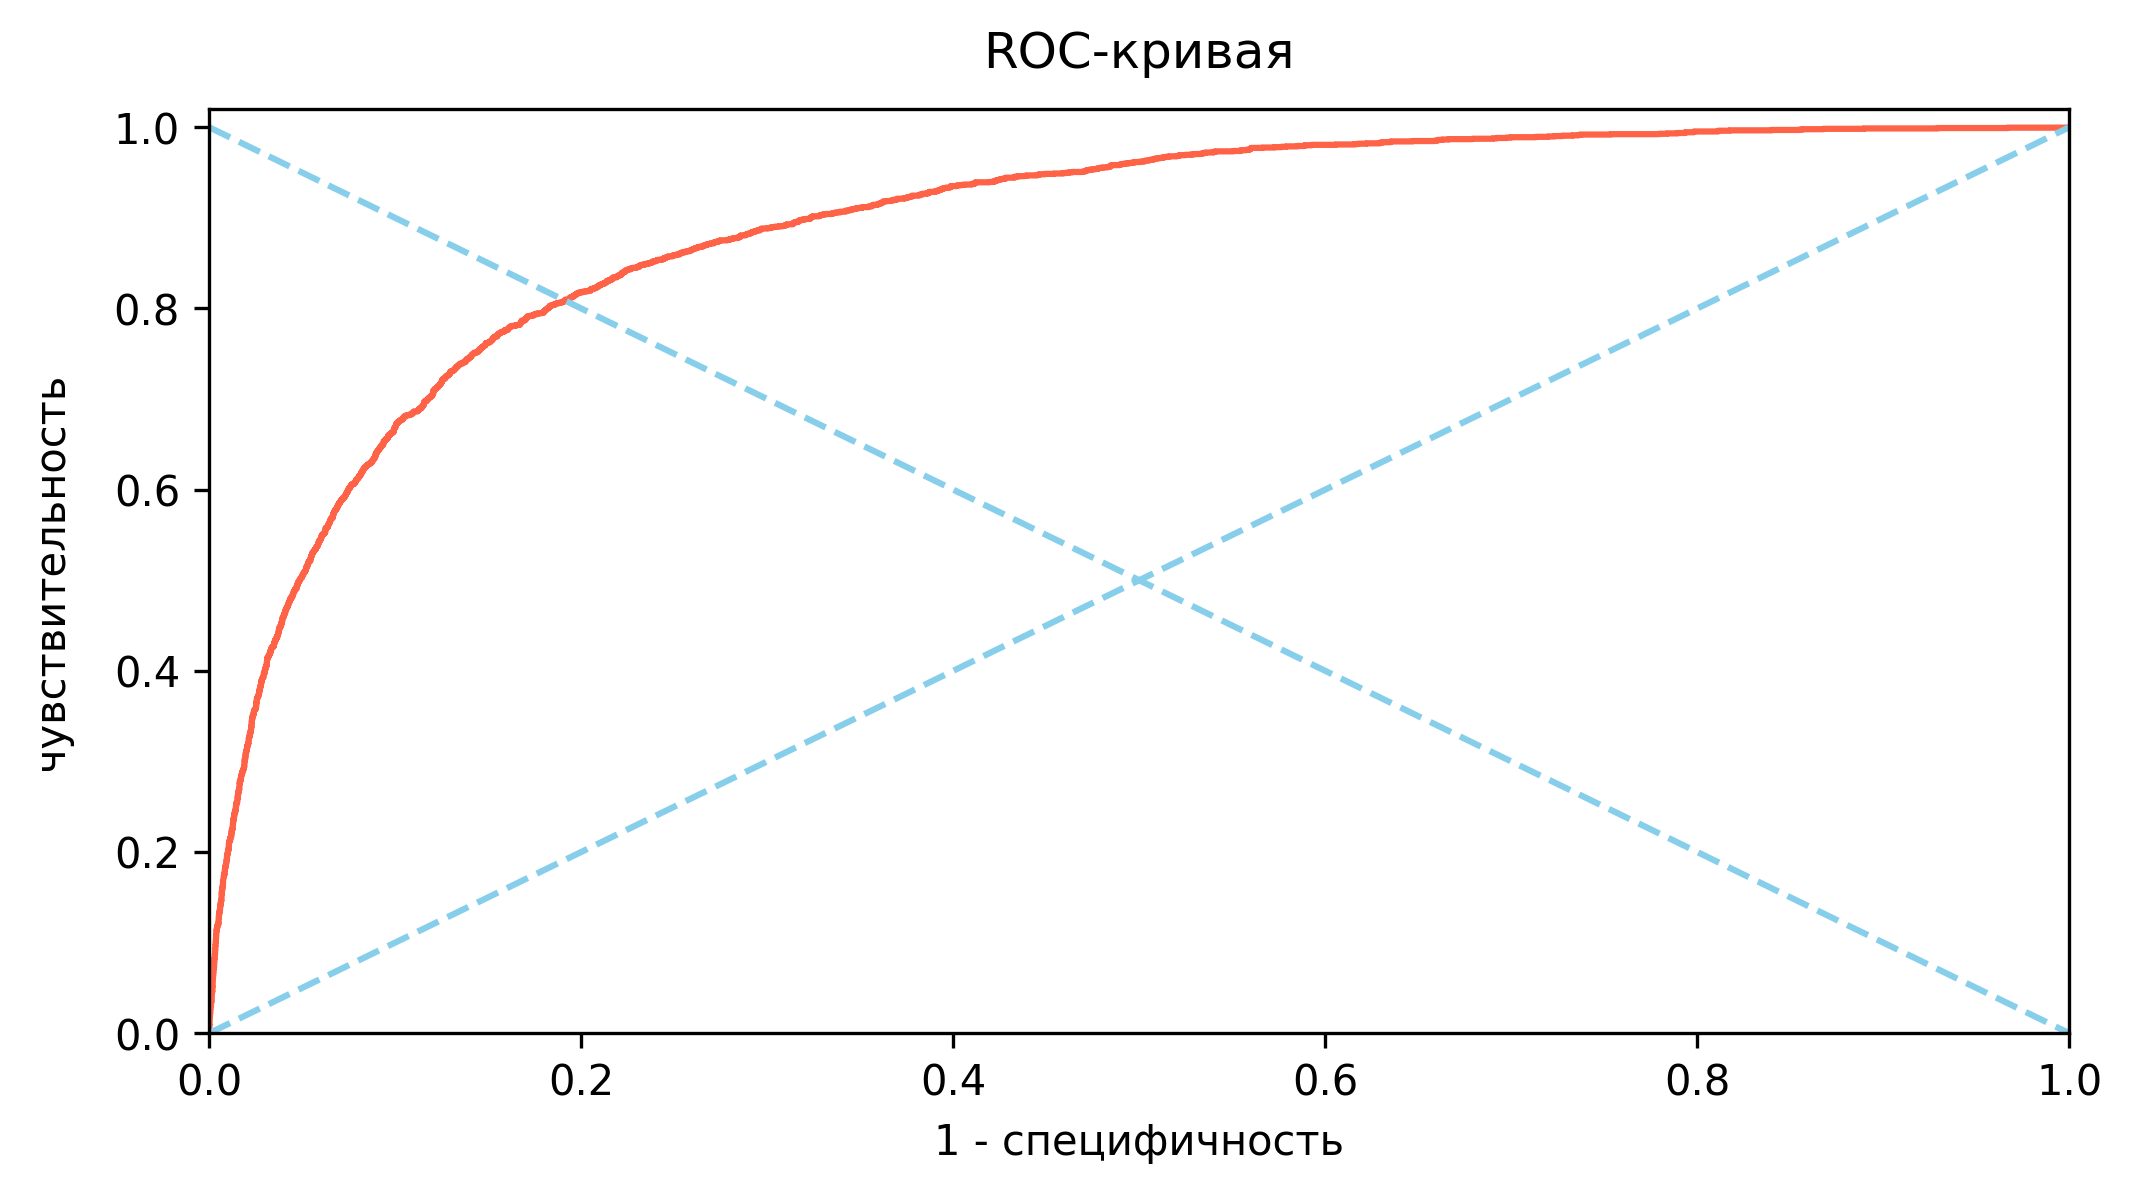
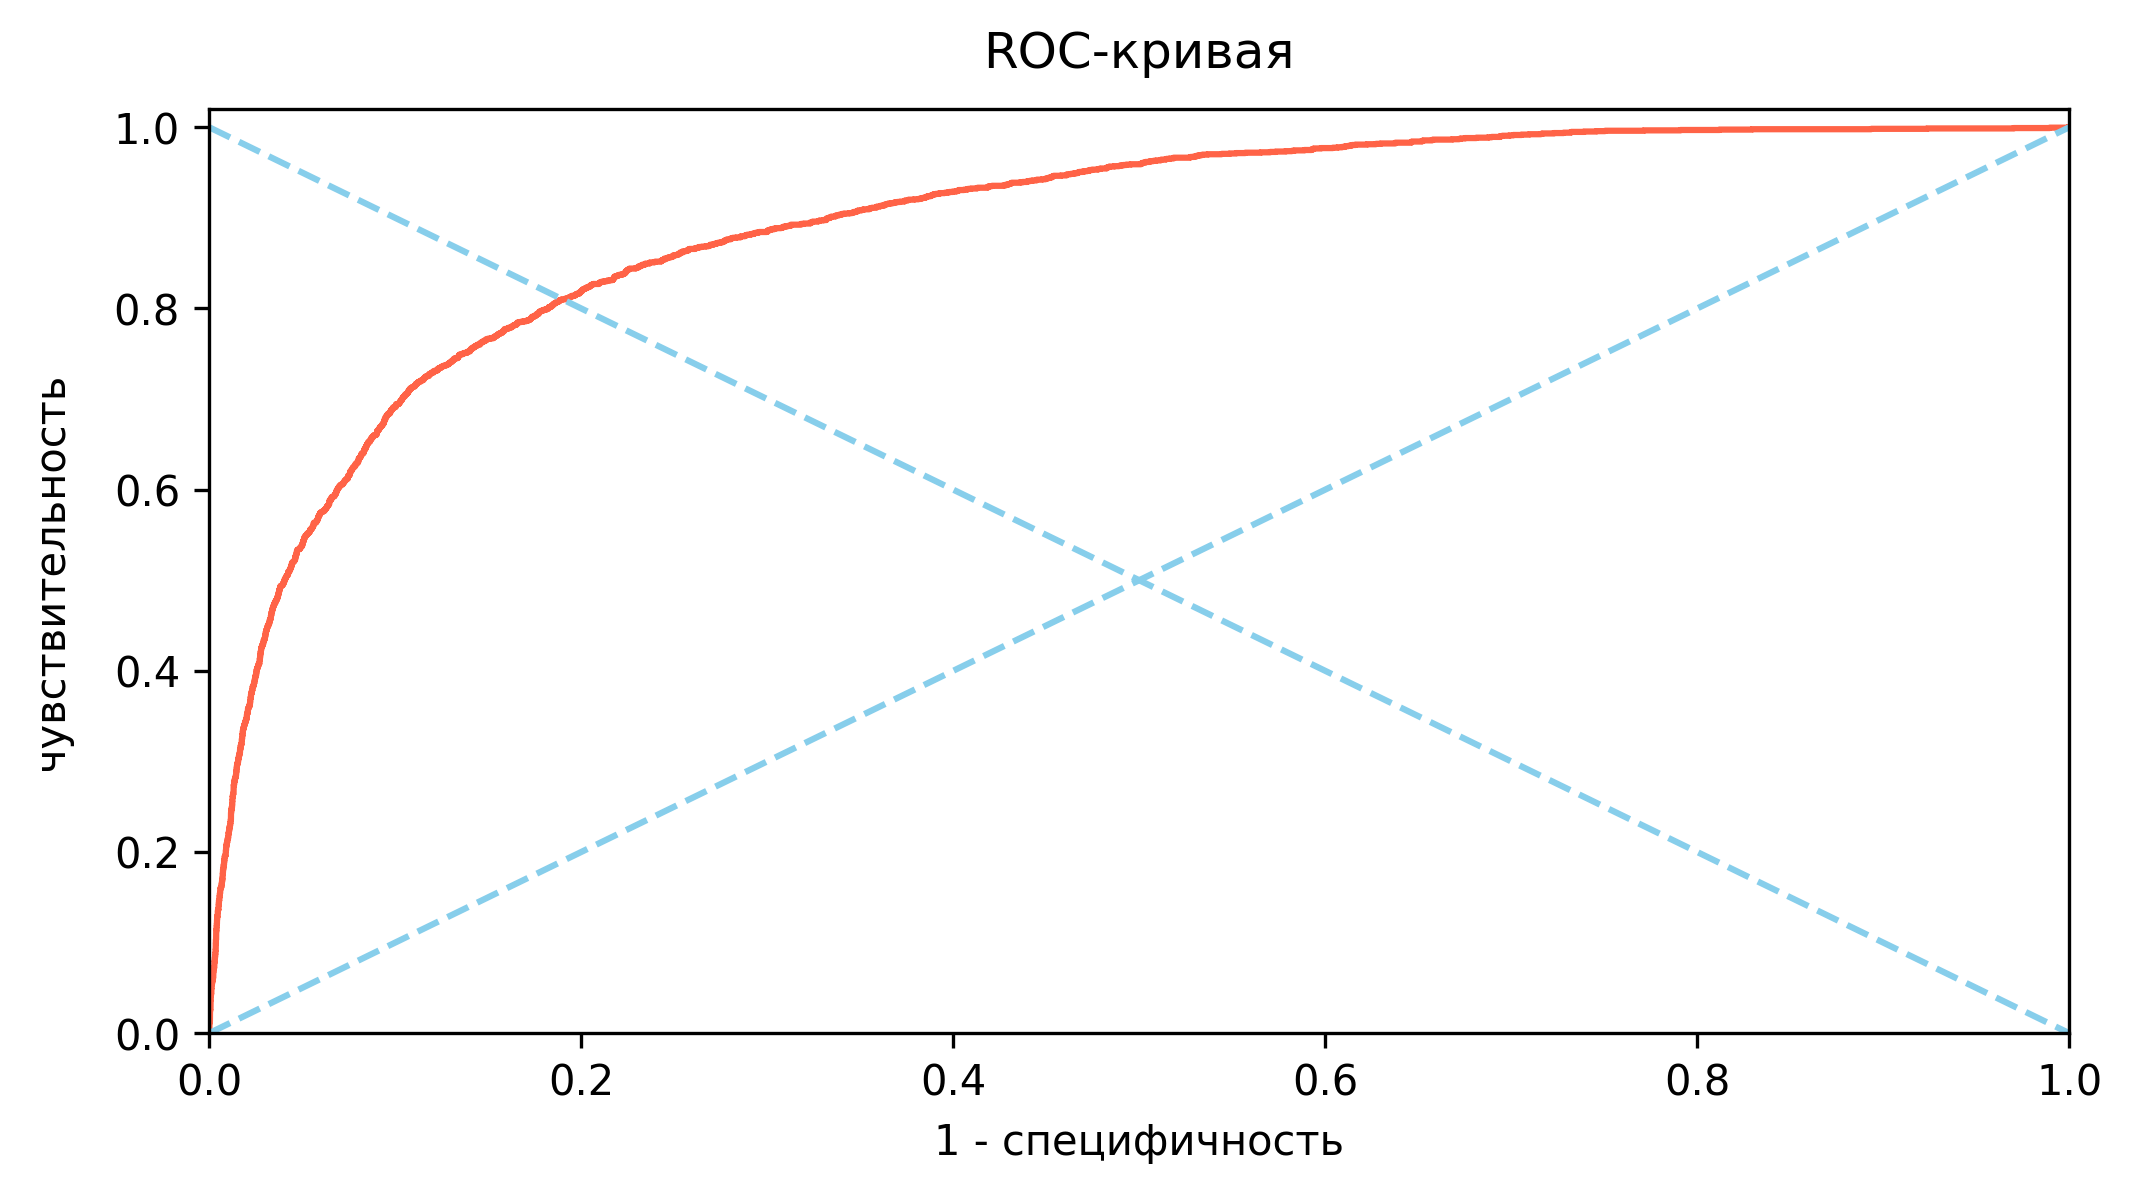
using oversampling

diff --git a/utils/processing.py b/utils/processing.py
@@ -1,9 +1,32 @@
 from typing import Tuple, List, Dict
 import numpy as np
 import pandas as pd
-from sklearn.preprocessing import MinMaxScaler
+from sklearn.preprocessing import MinMaxScaler, StandardScaler
 from sklearn.utils.class_weight import compute_class_weight
 from sklearn.utils import shuffle
+
+
+def use_oversampling(x: np.ndarray, y: np.ndarray) -> Tuple[np.ndarray, np.ndarray]:
+    pos_mask = (y == 1.0).flatten()
+    neg_mask = ~pos_mask
+
+    pos_x, neg_x = x[pos_mask], x[neg_mask]
+    pos_y, neg_y = y[pos_mask], y[neg_mask]
+
+    indices = np.arange(len(pos_x), dtype=int)
+    indices = np.random.choice(indices, len(neg_x))
+
+    resampled_pos_x = pos_x[indices]
+    resampled_pos_y = pos_y[indices]
+
+    resampled_x = np.concatenate([resampled_pos_x, neg_x], axis=0)
+    resampled_y = np.concatenate([resampled_pos_y, neg_y], axis=0)
+
+    order = np.arange(len(resampled_y), dtype=int)
+    np.random.shuffle(order)
+    resampled_x = resampled_x[order]
+    resampled_y = resampled_y[order]
+    return resampled_x, resampled_y
 
 
 def preparate_data(
@@ -19,6 +42,10 @@ def preparate_data(
     y = np.array(list(map(lambda x: (1 if x < 12.0 else 0), y)), dtype="int64")
     print(f"Shape of y: {y.shape}")
     print(f"Доля пациентов с низким ферритином: {100 * sum(y) / len(y)}%")
+    pos, neg = sum(y), len(y) - sum(y)
+    print(f"total={len(y)}")
+    print(f"{pos=}")
+    print(f"{neg=}")
 
     x = df.drop(targets, axis=1).to_numpy()
     print(f"Shape of x: {x.shape}")
@@ -36,8 +63,9 @@ def preparate_data(
     x_scaled = x
     # Масштабируем данные:
     if scale:
-        scaler = MinMaxScaler(feature_range=(0, 1))
+        scaler = StandardScaler()
         x_scaled = scaler.fit_transform(x)
+        # x_scaled = np.clip(a=x_scaled, a_min=-5.0, a_max=5.0)
         print(f"Shape of scaled x: {x_scaled.shape}")
     data_size = x_scaled.shape[0]
     print(f"Размер всех данных: {data_size}")
@@ -51,11 +79,6 @@ def preparate_data(
 
     y_train = np.zeros((train_size, 1), dtype=float)
     y_test = np.zeros((test_size, 1), dtype=float)
-
-    print(f"Shape of x_train: {x_train.shape}")
-    print(f"Shape of x_test: {x_test.shape}")
-    print(f"Shape of y_train: {y_train.shape}")
-    print(f"Shape of y_test: {y_test.shape}")
 
     # Перемешаем данные:
     inds = [i for i in range(data_size)]
@@ -71,4 +94,10 @@ def preparate_data(
         y_test[j] = y[inds[i]]
         j += 1
 
-    return class_weight, x_train, y_train, x_test, y_test
+    # x_train, y_train = use_oversampling(x_train, y_train)
+    print(f"Shape of x_train: {x_train.shape}")
+    print(f"Shape of x_test: {x_test.shape}")
+    print(f"Shape of y_train: {y_train.shape}")
+    print(f"Shape of y_test: {y_test.shape}")
+
+    return class_weight, x_train, y_train, x_test, y_test, pos, neg

diff --git a/utils/models.py b/utils/models.py
@@ -4,9 +4,10 @@ import sys
 import numpy as np
 from sklearn.metrics import roc_curve, auc
 import keras
-from keras.layers import Input, Dense, Dropout, RepeatVector, Flatten, Layer
-from keras.models import Model
-from keras.utils import plot_model
+from keras.api.layers import Input, Dense, Dropout, RepeatVector, Flatten, Layer
+from keras.api.models import Model
+from keras.api.initializers import Constant
+from keras.api.utils import plot_model
 
 # Добавляем корневую папку utils в sys.path:
 sys.path.append(os.path.abspath(os.path.join(os.path.dirname(__file__), "..")))
@@ -20,13 +21,15 @@ from package.embeddings import *
 from package.ensembles import *
 
 
-def create_model(hidden_units: int, units: int) -> Model:
+def create_model(hidden_units, pos, neg) -> Model:
+    out_bias_init = Constant(value=np.log(pos / neg))
+
     input = Input(shape=(12,))
     x = Dense(units=hidden_units, activation="relu")(input)
     # x = Dropout(0.3)(x)
     # x = Dense(units=units, activation="relu")(x)
     # x = Dropout(0.3)(x)
-    output = Dense(units=1, activation="sigmoid")(x)
+    output = Dense(units=1, activation="sigmoid", bias_initializer="zeros")(x)
 
     model = Model(inputs=input, outputs=output)
 
@@ -167,6 +170,7 @@ def train_model(
     isSave: bool,
     filename: str = "",
 ) -> Dict[str, List[float]]:
+    # print(model.layers[-1].get_weights())
     history = model.fit(
         x=x_train,
         y=y_train,
@@ -174,9 +178,8 @@ def train_model(
         epochs=100,
         verbose=2,
         validation_split=0.2,
-        # validation_data=(x_test, y_test),
         shuffle=True,
-        class_weight=class_weight,
+        # class_weight=class_weight,
         callbacks=[early_stopping(), reduce_lr()],
     )
     if isSave:

diff --git a/train.py b/train.py
@@ -3,7 +3,7 @@ import os
 # os.environ["CUDA_VISIBLE_DEVICES"] = "-1"
 
 import pandas as pd
-from keras.utils import set_random_seed
+from keras.api.utils import set_random_seed
 import json
 import random
 
@@ -26,15 +26,14 @@ n_features = len(df.columns) - len(targets)
 print(f"{n_features=}")
 
 hidden_units = 90
-units = 95
 
 list_statistics = []
 for i in range(repeats):
     # set_random_seed(seeds[i])
-    class_weight, x_train, y_train, x_test, y_test = preparate_data(
+    class_weight, x_train, y_train, x_test, y_test, pos, neg = preparate_data(
         df, n_features, targets, scale=True, seed=None
     )
-    model = create_model(hidden_units, units)
+    model = create_model(hidden_units, pos, neg)
     history_data = train_model(
         model,
         x_train,
@@ -77,7 +76,7 @@ for key in list_statistics[0].keys():
     avg_statistics[f"list_{key}"] = results
 
 with open(
-    f"./output/base_model/res-all_data-{hidden_units}-hidden_{units}-units.json",
+    f"./output/base_model/res-all_data-{hidden_units}-units.json",
     "w",
 ) as file:
     json.dump(avg_statistics, file, ensure_ascii=False, indent=4)

diff --git a/utils/callbacks.py b/utils/callbacks.py
@@ -1,4 +1,4 @@
-from keras.callbacks import EarlyStopping, ReduceLROnPlateau
+from keras.api.callbacks import EarlyStopping, ReduceLROnPlateau
 
 
 def early_stopping() -> EarlyStopping:
